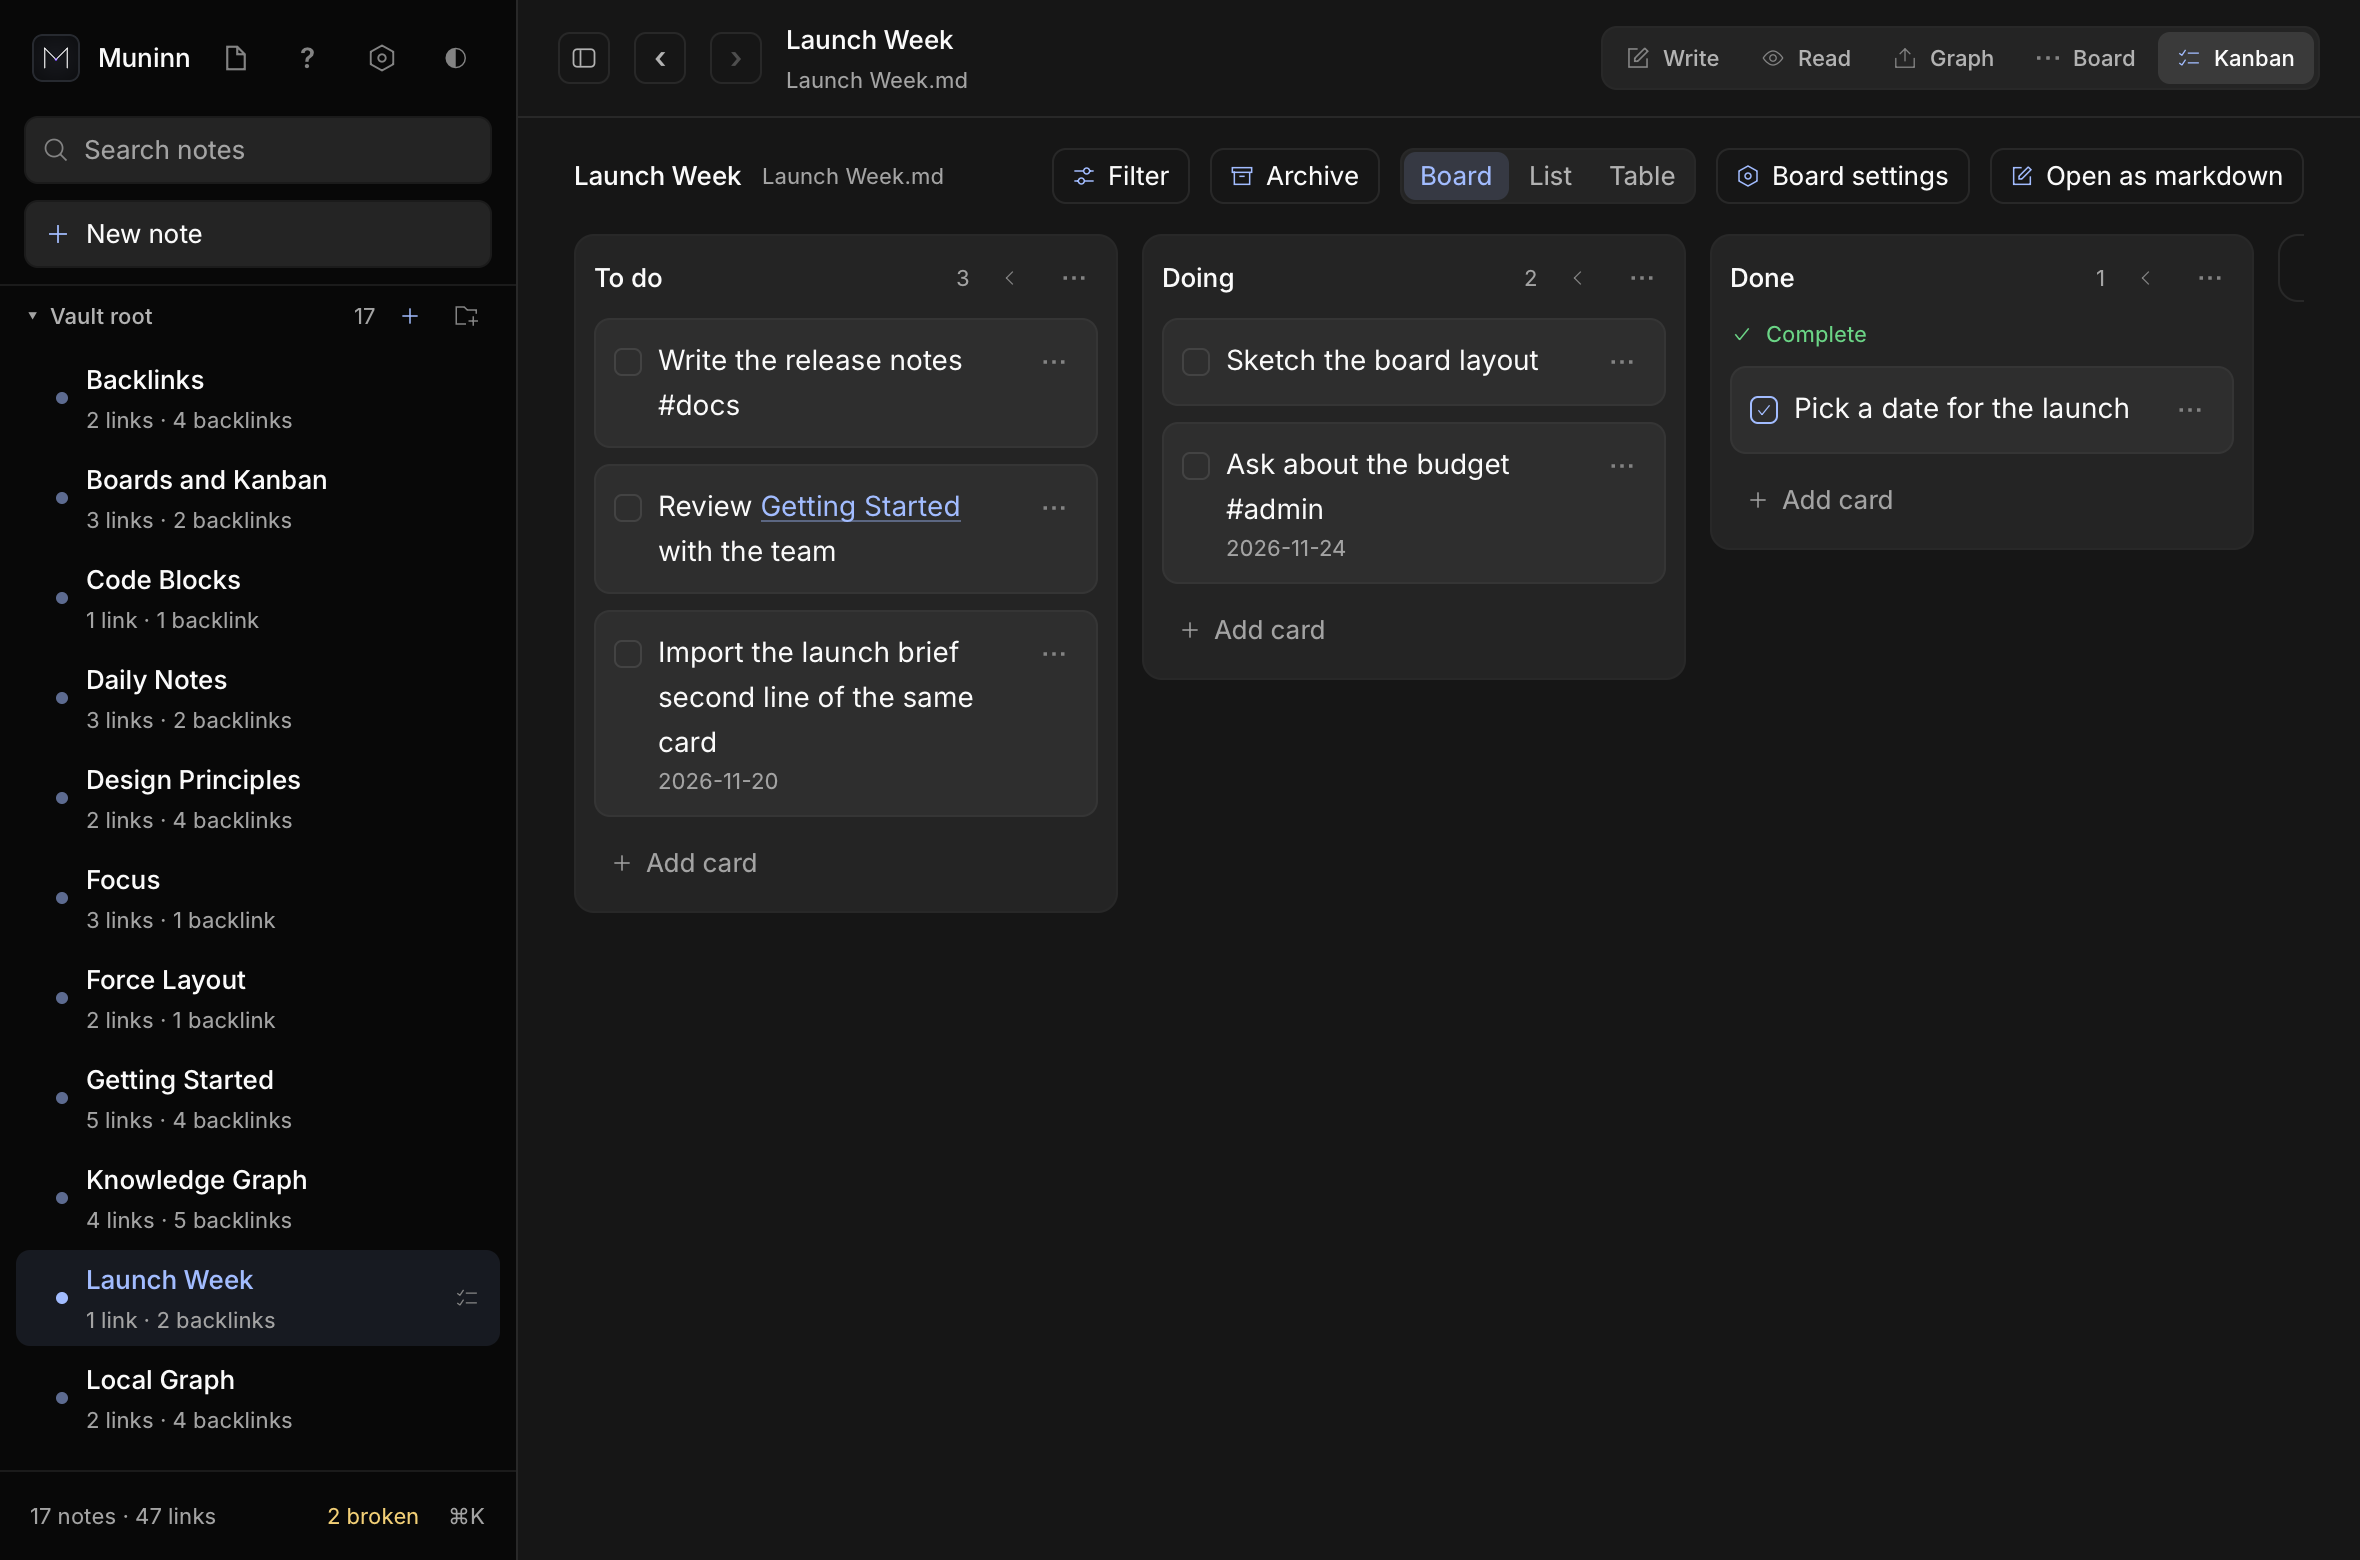
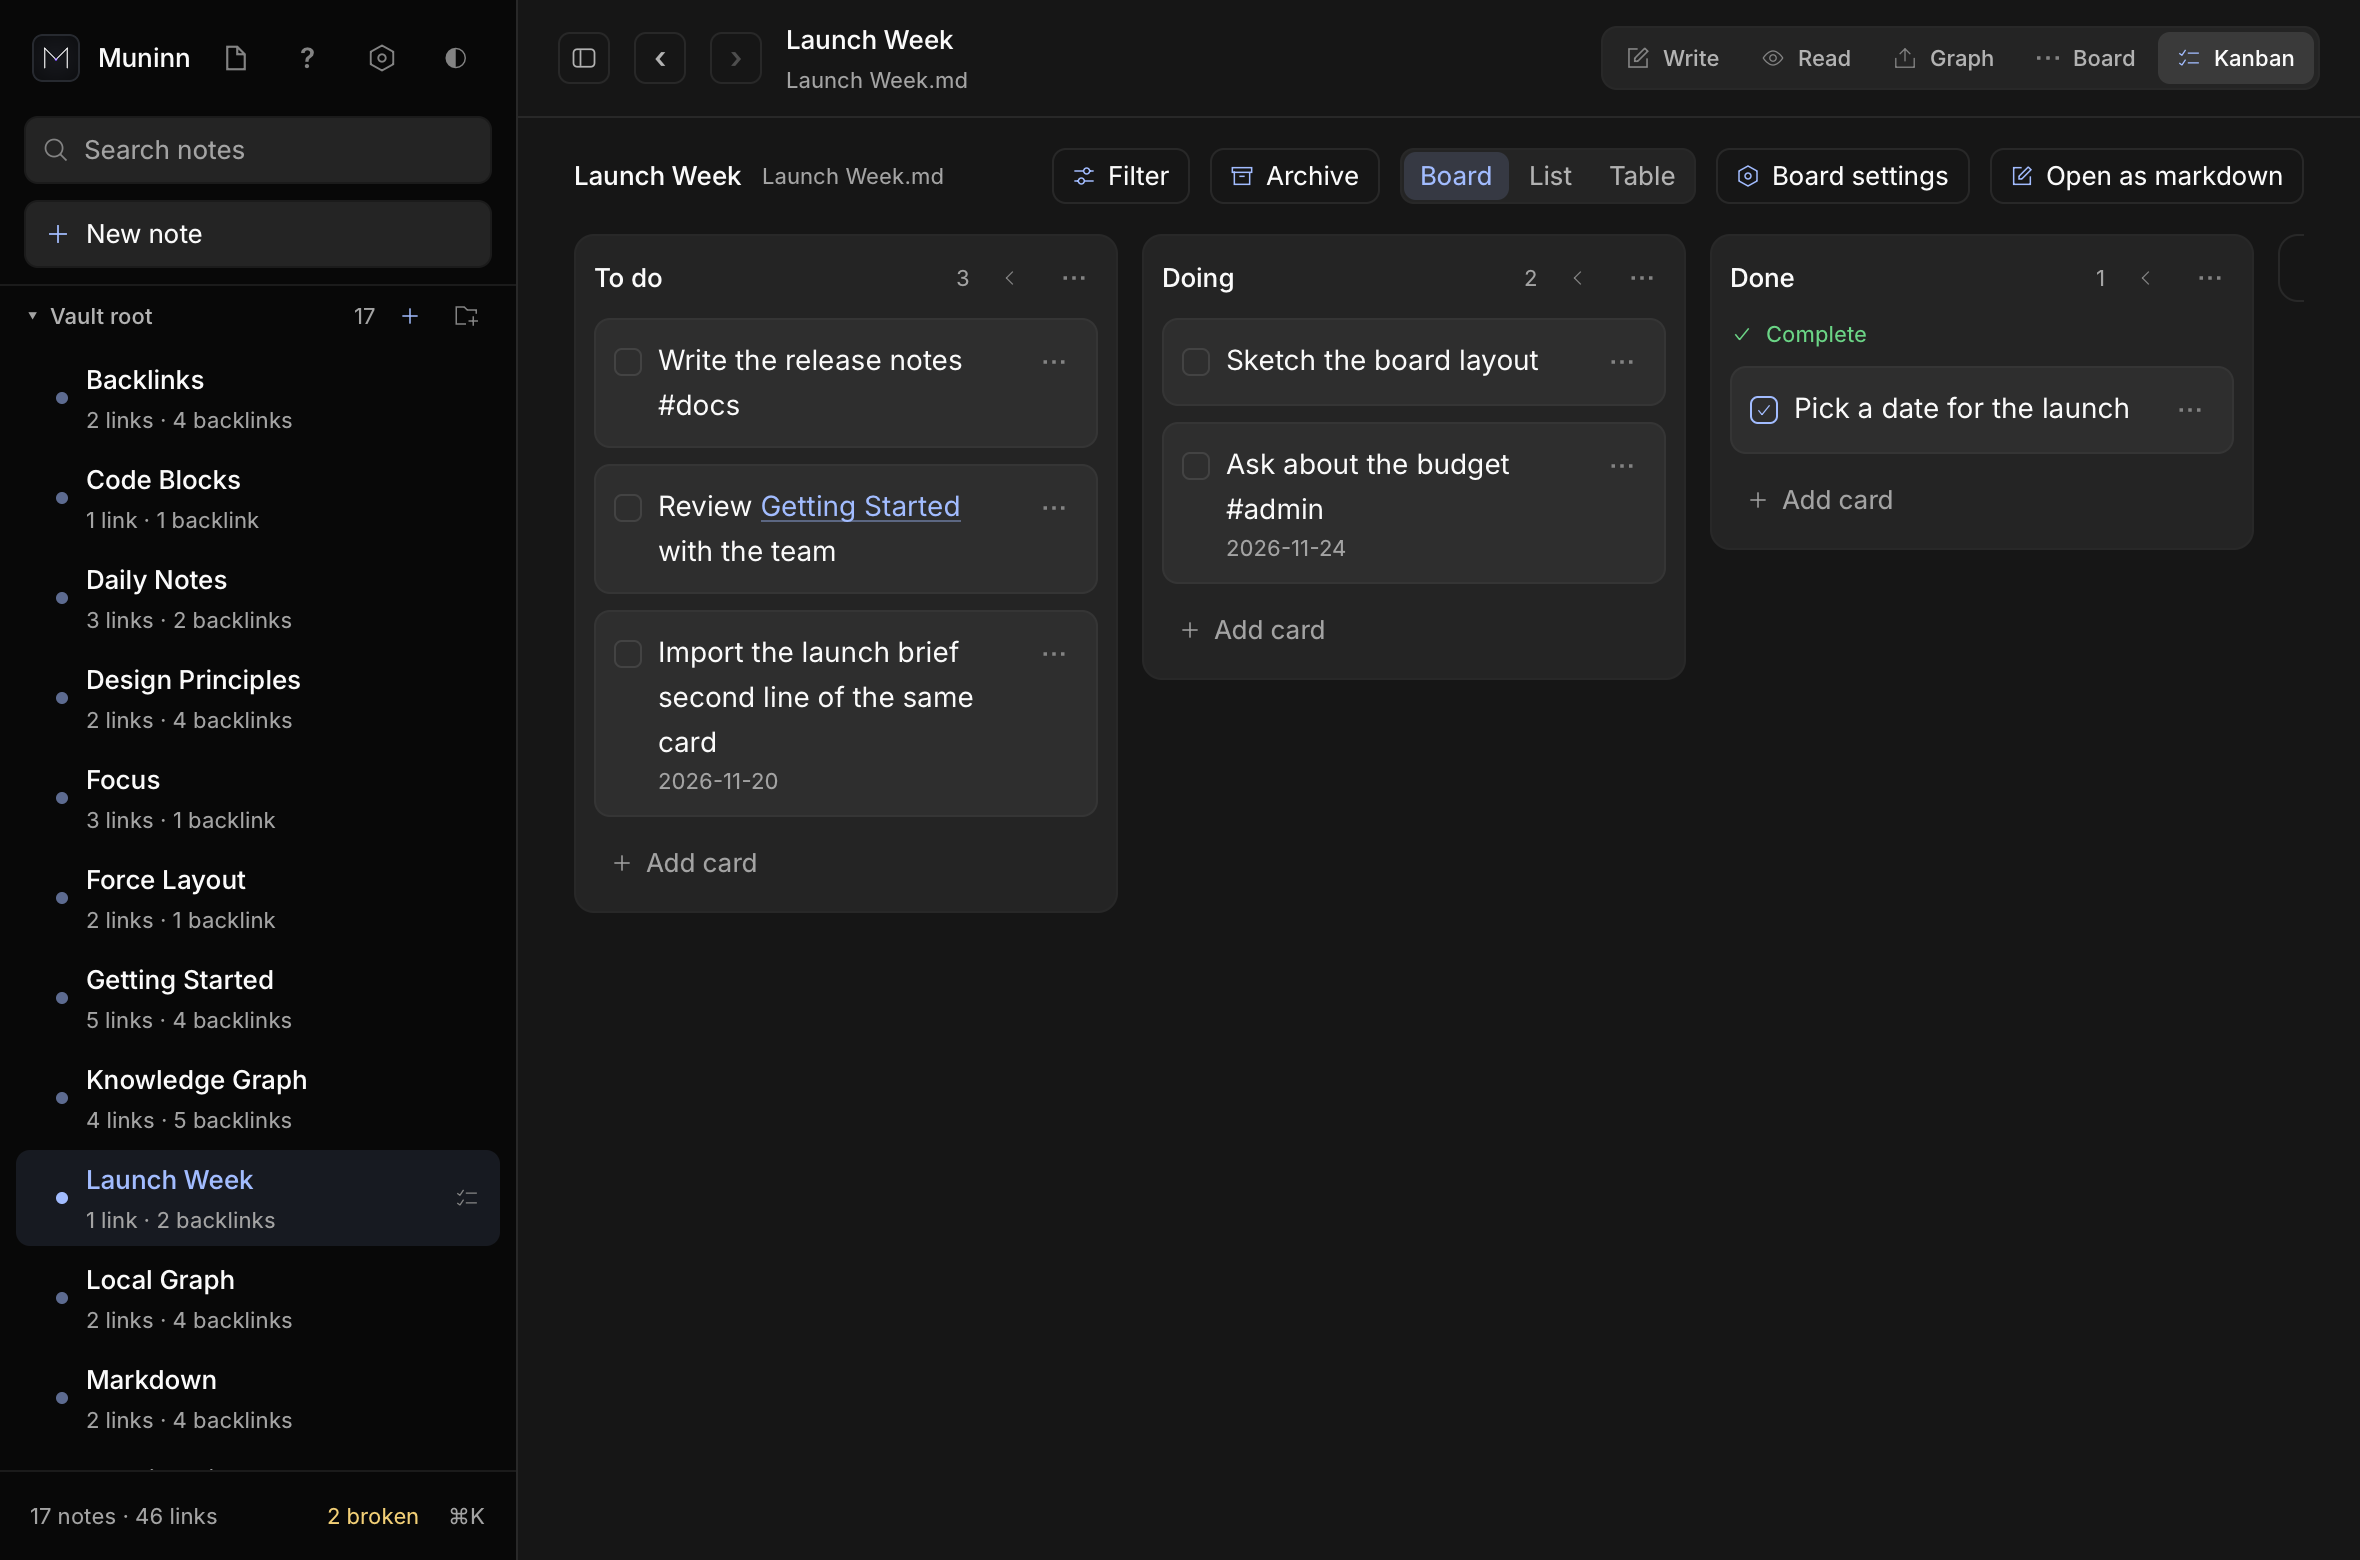
docs: name the visual-modes tutorial and keep Scratchpad an island
"Boards and Kanban" was long enough to truncate in the graph. Rename the
tutorial to "Visual modes" (still explaining both), update the two links,
and drop Scratchpad from Welcome's linked list so its "no links in" claim is
true and the graph keeps a real leaf. Re-render the stills and Settings tabs.

diff --git a/vault/Welcome.md b/vault/Welcome.md
@@ -19,9 +19,9 @@ around.
 - [[Wikilinks]] — links, aliases and headings
 - [[Backlinks]] — the other half of a link
 - [[Knowledge Graph]] and [[Local Graph]] — the whole map and one neighbourhood
-- [[Boards and Kanban]] — the two visual modes
+- [[Visual modes]] — Board and Kanban
 - [[Launch Week]] — a sample Kanban; open it and press `⌘5`
-- [[Daily Notes]], [[Design Principles]], [[Typography]] and [[Scratchpad]]
+- [[Daily Notes]], [[Design Principles]] and [[Typography]]; **Scratchpad** is an unlinked island
 
 Use `⌘K` (or `Ctrl+K`) to search, `⌘N` to make a note, `⌘I` to import a
 document, `⌘G` to open the graph, and `⌘?` for every shortcut. Settings is

diff --git a/vault/Getting Started.md b/vault/Getting Started.md
@@ -35,7 +35,7 @@ outgoing links and backlinks, with the line that made each backlink. Press
 
 `⌘K` / `Ctrl+K` searches notes. `⌘P` / `Ctrl+P` inserts a wikilink at the
 caret. `⌘1`…`⌘5` / `Ctrl+1`…`Ctrl+5` switches Write, Read, Graph, Board and
-Kanban; [[Boards and Kanban]] explains the last two. `⌘?` / `Ctrl+?` opens the
+Kanban; [[Visual modes]] explains the last two. `⌘?` / `Ctrl+?` opens the
 full shortcut map.
 
 Related: [[Markdown]], [[Wikilinks]] and [[Daily Notes]].

diff --git a/vault/Visual modes.md b/vault/Visual modes.md
@@ -1,4 +1,4 @@
-# Boards and Kanban
+# Visual modes
 
 Both modes are files, not a separate store.
 
